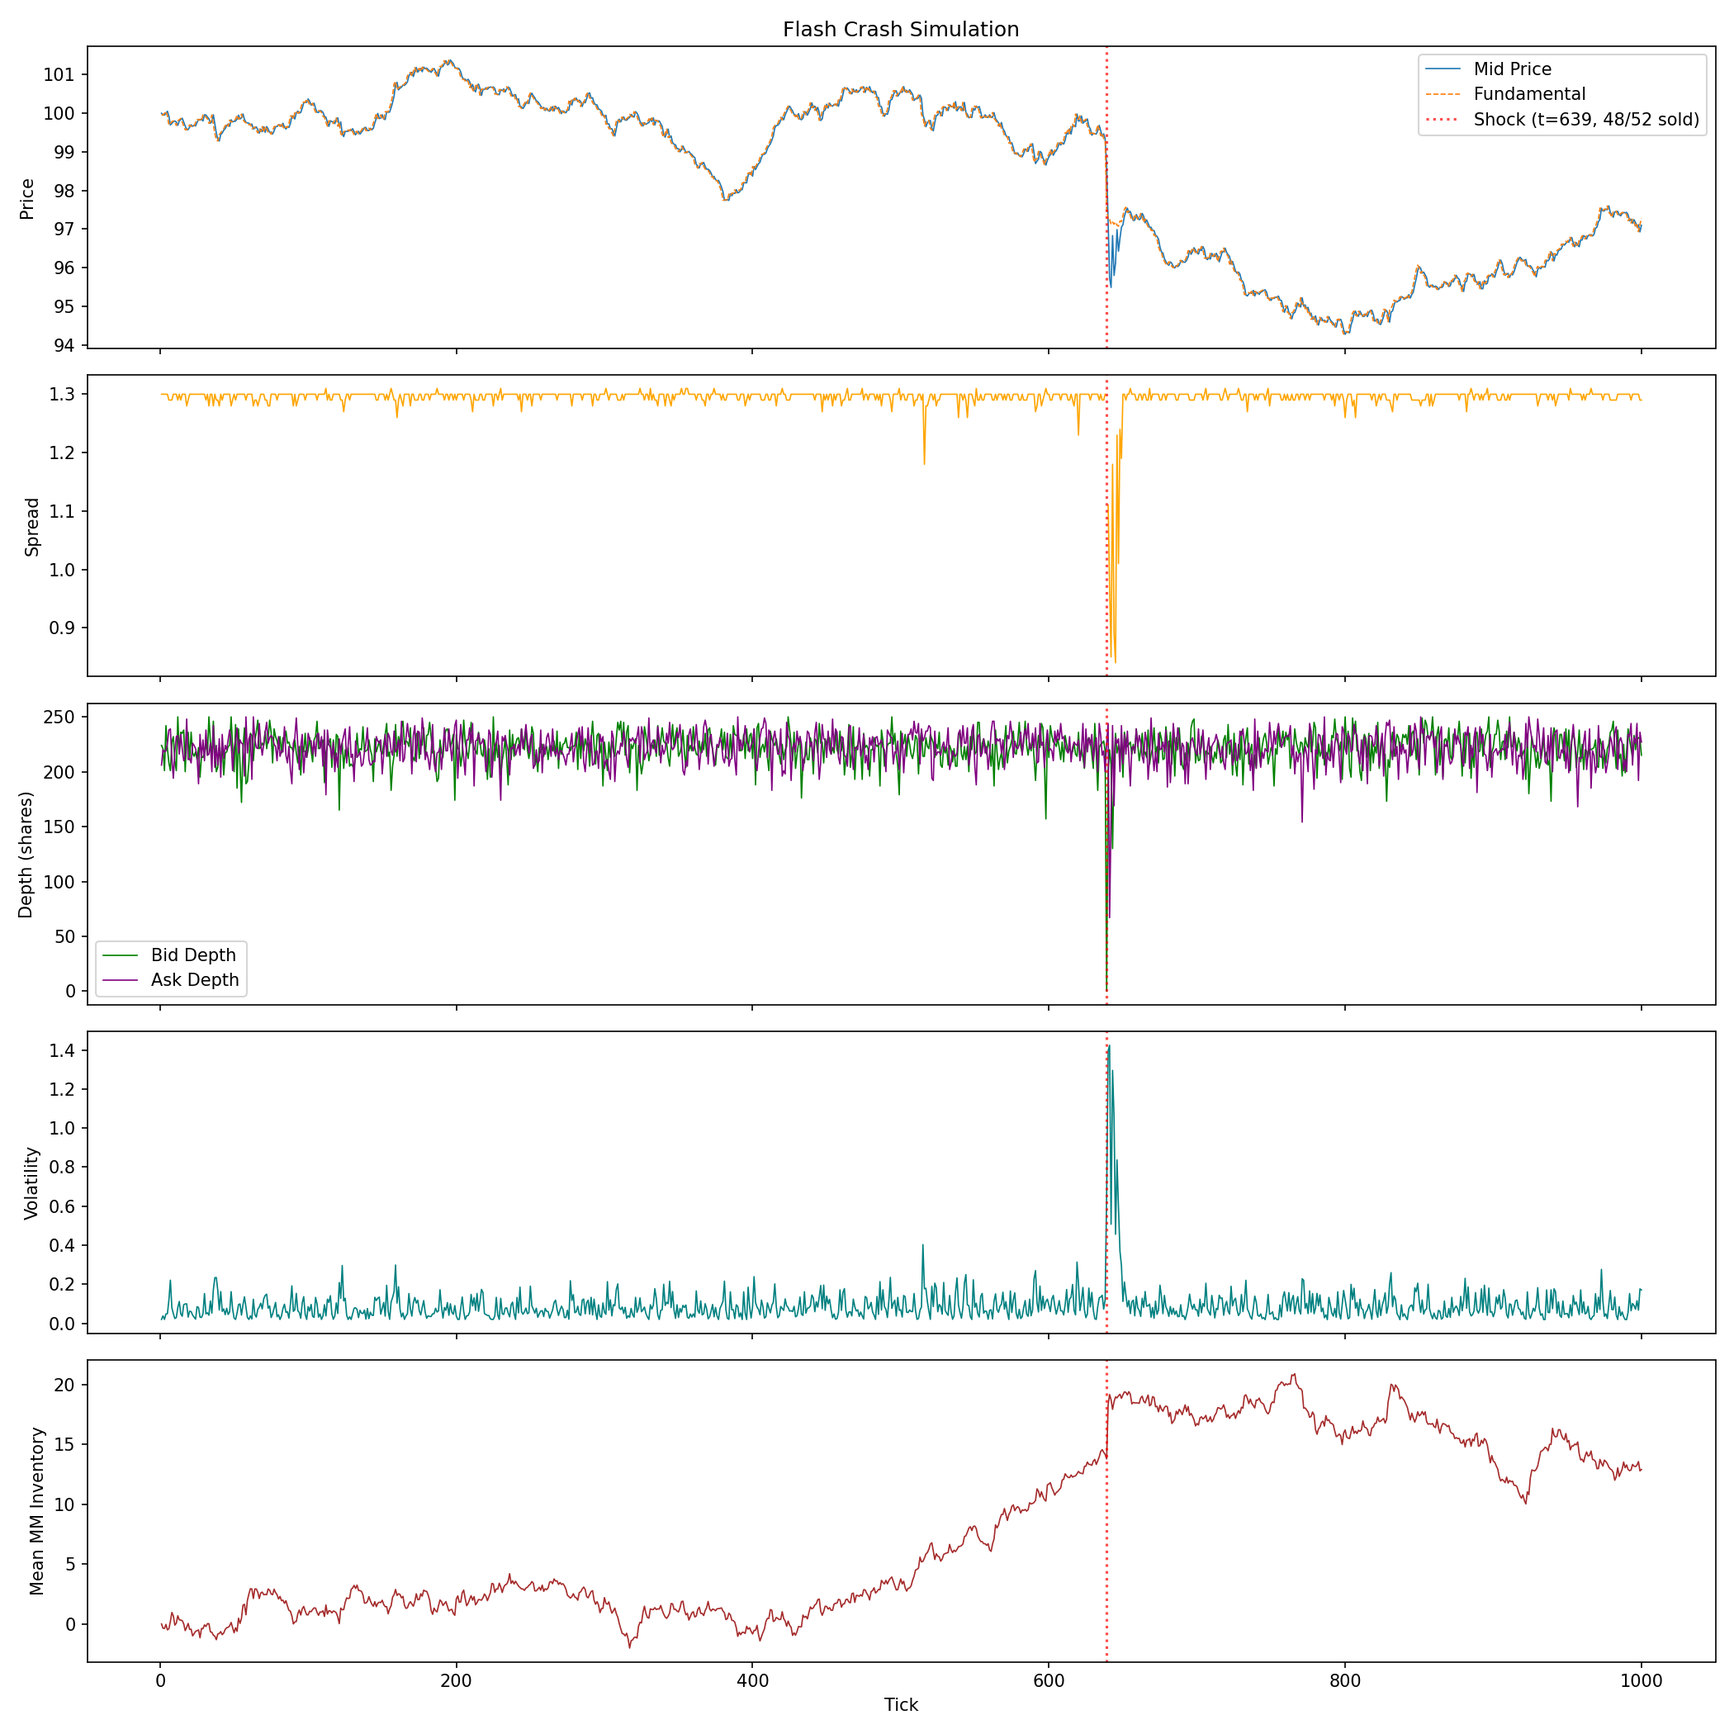
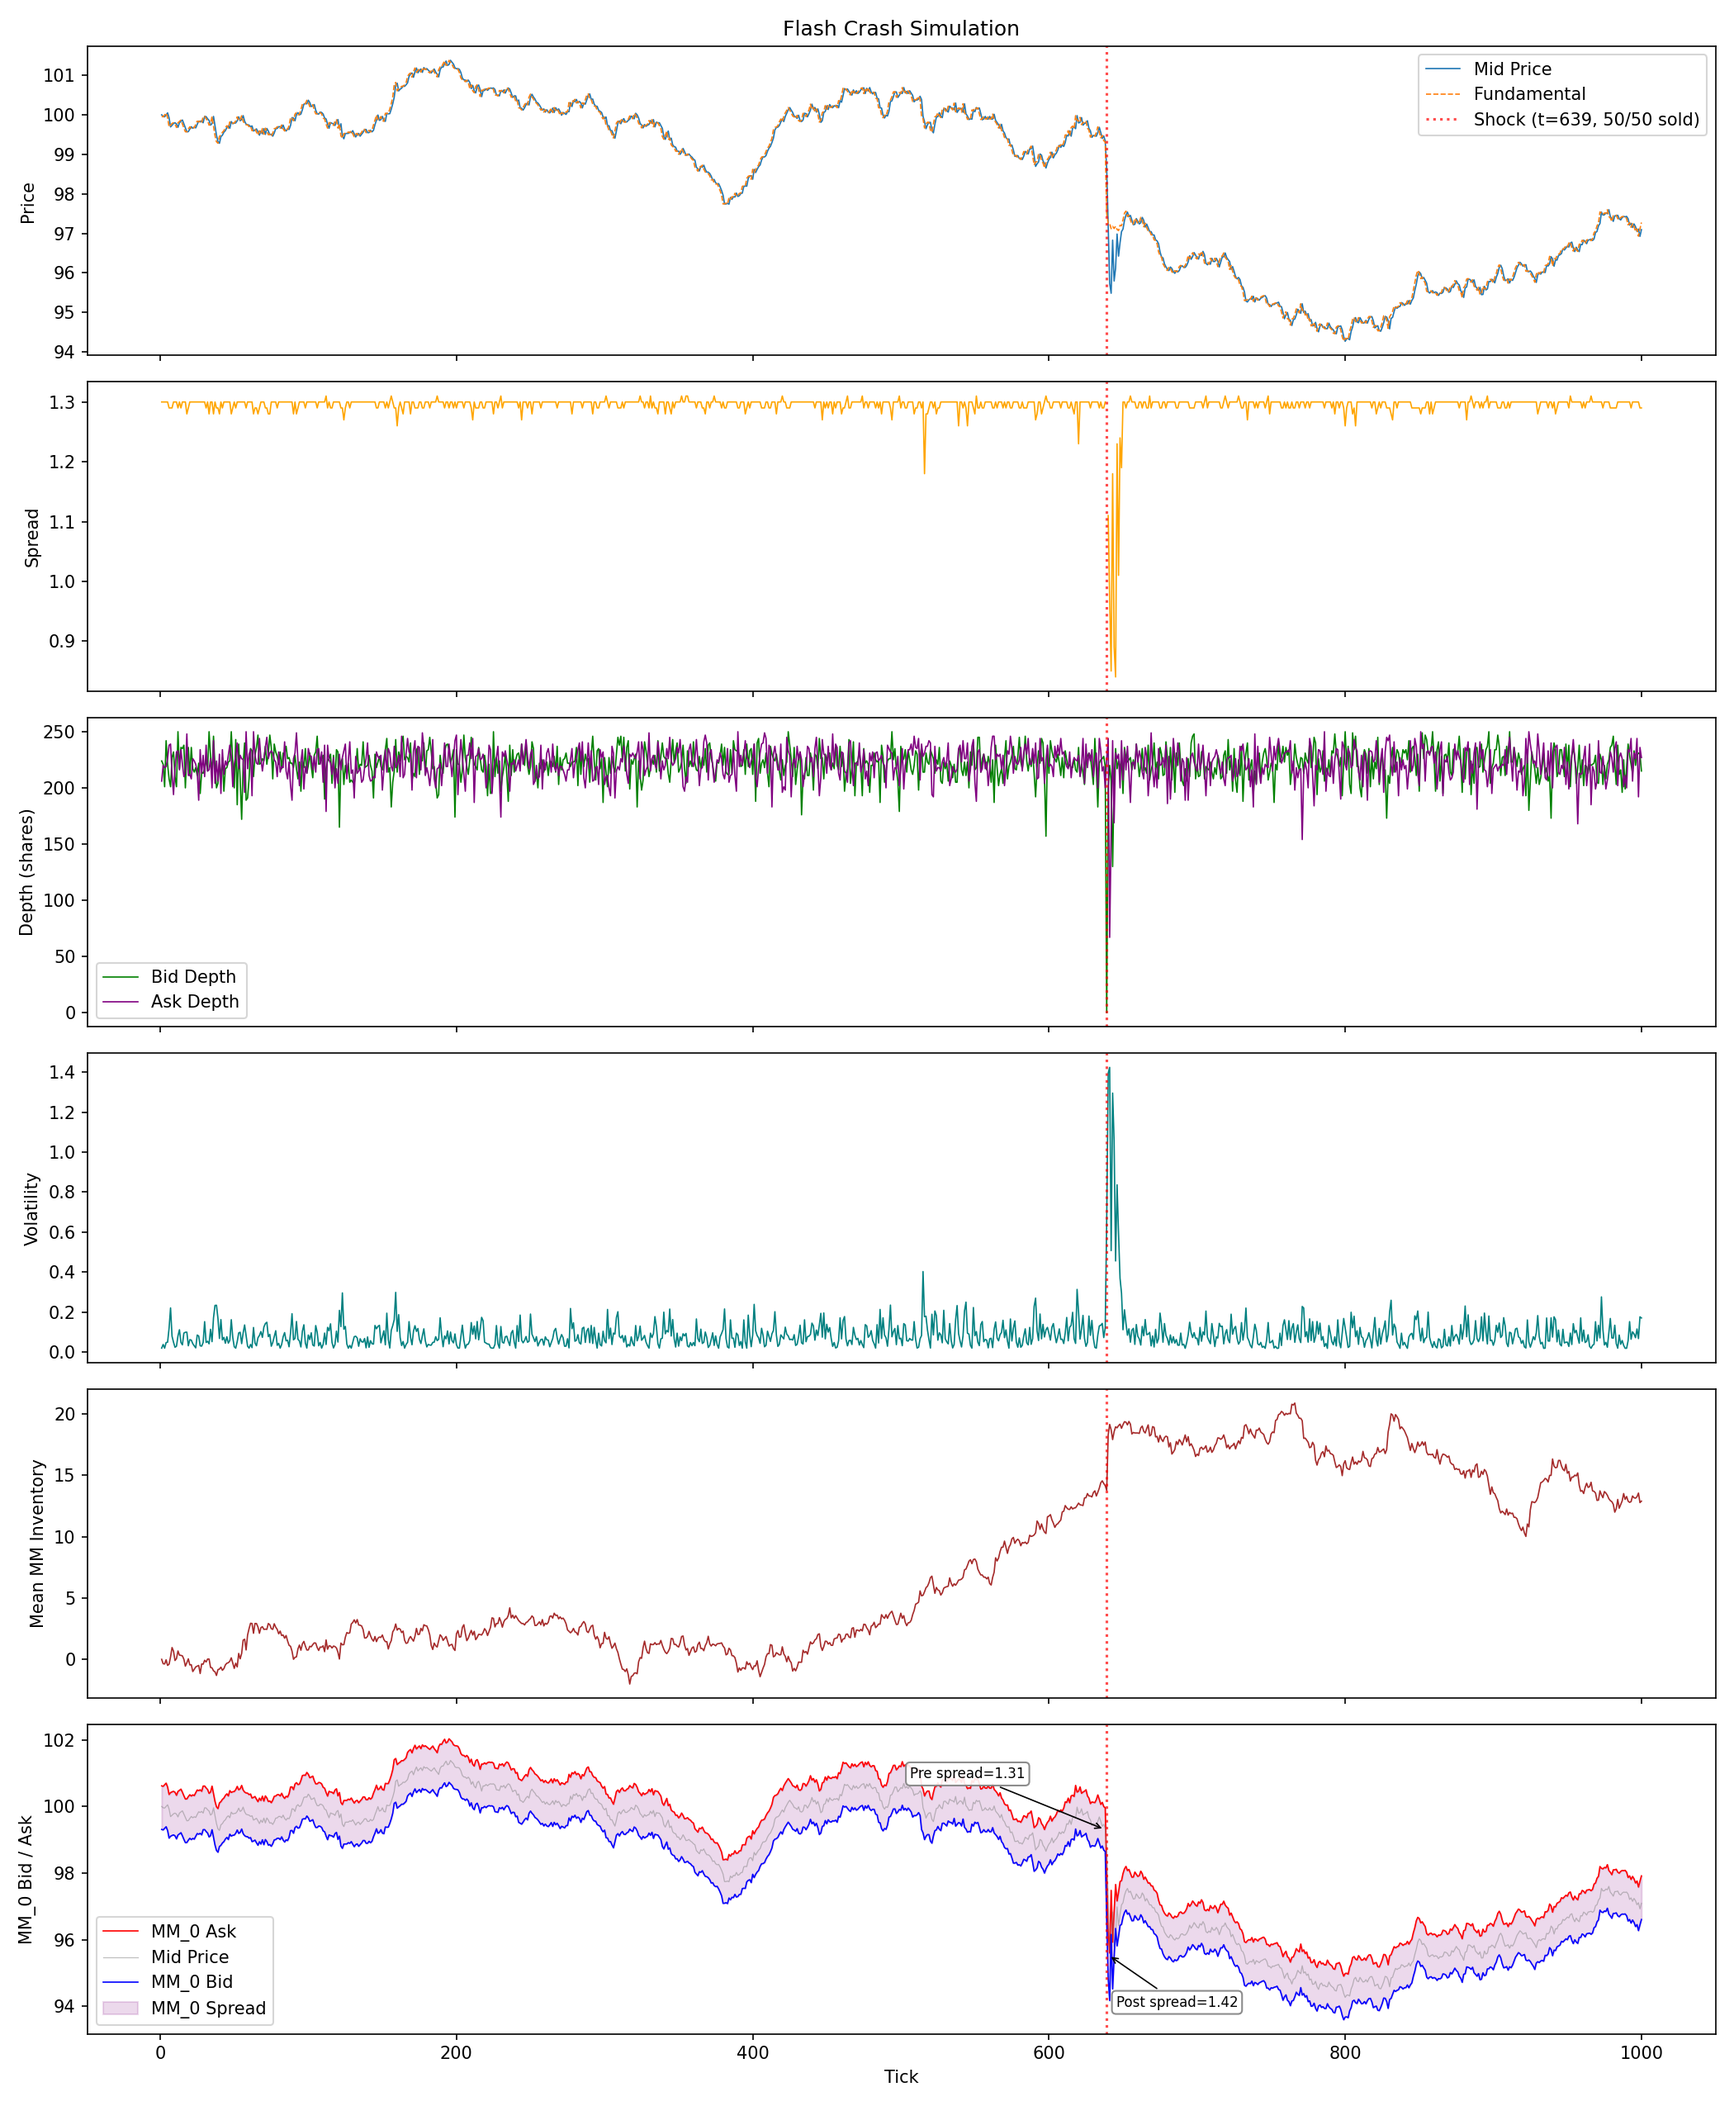
march-17-update

diff --git a/Elena's Starting Point/tests/self_tests.py b/Elena's Starting Point/tests/self_tests.py
@@ -60,7 +60,7 @@ def _dynamic_test_config() -> MAAMConfig:
 
     llm_groups = [
         LLMAgentConfig(
-            num_agents=2,  # <-- LLM agent count (group 1)
+            num_agents=17,  # <-- LLM agent count (group 1)
             provider="openai",
             model_name="llama3.1:8b",
             api_key_env_var="OLLAMA_API_KEY",
@@ -74,7 +74,7 @@ def _dynamic_test_config() -> MAAMConfig:
             execution_noise_max=1.1,
         ),
         LLMAgentConfig(
-            num_agents=2,  # <-- LLM agent count (group 2)
+            num_agents=17,  # <-- LLM agent count (group 2)
             provider="openai",
             model_name="mistral",
             api_key_env_var="OLLAMA_API_KEY",
@@ -90,7 +90,7 @@ def _dynamic_test_config() -> MAAMConfig:
     ]
 
     cfg.news_trader = NewsTraderPoolConfig(
-        num_finbert=48,   # <-- FinBERT agent count
+        num_finbert=16,   # <-- FinBERT agent count
         finbert=finbert_cfg,
         llm_groups=llm_groups,
     )
@@ -287,7 +287,7 @@ def run_full_simulation(episode_length: int = 1000, seed: int = 42):
 # ======================================================================
 
 def plot_results(sim: FlashCrashSimulation, history: list[dict]):
-    """Generate a 5-panel plot from simulation history and save to file."""
+    """Generate a 6-panel plot from simulation history and save to file."""
     print("=" * 70)
     print("PART 3: Generating Plot")
     print("=" * 70)
@@ -300,18 +300,28 @@ def plot_results(sim: FlashCrashSimulation, history: list[dict]):
     bid_depths = [h["bid_depth"] for h in history]
     ask_depths = [h["ask_depth"] for h in history]
     mean_invs = [h["mean_inventory"] for h in history]
+    mm0_bids = [h.get("mm0_bid_price") or float("nan") for h in history]
+    mm0_asks = [h.get("mm0_ask_price") or float("nan") for h in history]
     shock = sim.shock_tick
     num_news = len(sim.news_pool.agents)
     shock_orders = next(
         (h["num_shock_orders"] for h in history if h["tick"] == shock), 0
     )
 
-    fig, axes = plt.subplots(5, 1, figsize=(14, 14), sharex=True)
+    fig, axes = plt.subplots(6, 1, figsize=(14, 17), sharex=True)
+
+    import math
 
     axes[0].plot(ticks, mids, label="Mid Price", linewidth=0.8)
     axes[0].plot(ticks, funds, label="Fundamental", linewidth=0.8, linestyle="--")
     axes[0].axvline(shock, color="red", linestyle=":", alpha=0.7,
                     label=f"Shock (t={shock}, {shock_orders}/{num_news} sold)")
+
+    shock_idx = ticks.index(shock) if shock in ticks else None
+    if shock_idx is not None:
+        pre_idx = shock_idx - 1 if shock_idx > 0 else shock_idx
+        post_idx = shock_idx + 1 if shock_idx < len(ticks) - 1 else shock_idx
+
     axes[0].set_ylabel("Price")
     axes[0].legend()
     axes[0].set_title("Flash Crash Simulation")
@@ -333,12 +343,77 @@ def plot_results(sim: FlashCrashSimulation, history: list[dict]):
     axes[4].plot(ticks, mean_invs, linewidth=0.8, color="brown")
     axes[4].axvline(shock, color="red", linestyle=":", alpha=0.7)
     axes[4].set_ylabel("Mean MM Inventory")
-    axes[4].set_xlabel("Tick")
+
+    axes[5].plot(ticks, mm0_asks, label="MM_0 Ask", linewidth=0.8, color="red")
+    axes[5].plot(ticks, mids, label="Mid Price", linewidth=0.6, color="gray", alpha=0.5)
+    axes[5].plot(ticks, mm0_bids, label="MM_0 Bid", linewidth=0.8, color="blue")
+    axes[5].fill_between(ticks, mm0_bids, mm0_asks, alpha=0.15, color="purple",
+                         label="MM_0 Spread")
+    axes[5].axvline(shock, color="red", linestyle=":", alpha=0.7)
+
+    if shock_idx is not None:
+        for idx, label_prefix in [(pre_idx, "Pre"), (post_idx, "Post")]:
+            bid_v, ask_v = mm0_bids[idx], mm0_asks[idx]
+            if not (math.isnan(bid_v) or math.isnan(ask_v)):
+                spread_v = ask_v - bid_v
+                mid_y = (ask_v + bid_v) / 2
+                axes[5].annotate(
+                    f"{label_prefix} spread={spread_v:.2f}",
+                    xy=(ticks[idx], mid_y),
+                    xytext=(-80 if label_prefix == "Pre" else 40,
+                            30 if label_prefix == "Pre" else -30),
+                    textcoords="offset points", fontsize=8, ha="center",
+                    arrowprops=dict(arrowstyle="->", color="black", lw=0.8),
+                    bbox=dict(boxstyle="round,pad=0.3", fc="white", ec="gray", alpha=0.9))
+
+    axes[5].set_ylabel("MM_0 Bid / Ask")
+    axes[5].set_xlabel("Tick")
+    axes[5].legend(loc="lower left")
 
     fig.tight_layout()
     out_path = os.path.join(os.path.dirname(__file__), "..", "flash_crash_plot.png")
     plt.savefig(out_path, dpi=150)
     print(f"  Plot saved to {os.path.abspath(out_path)}")
+    plt.show()
+    print()
+
+
+def plot_zoomed_shock(sim: FlashCrashSimulation, history: list[dict], window: int = 30):
+    """Zoomed-in single-panel plot of mid/fundamental price around the shock."""
+    print("=" * 70)
+    print("PART 4: Generating Zoomed Shock Plot")
+    print("=" * 70)
+
+    shock = sim.shock_tick
+    ticks = [h["tick"] for h in history]
+
+    shock_idx = ticks.index(shock) if shock in ticks else None
+    if shock_idx is None:
+        print("  Shock tick not found in history — skipping zoom plot.")
+        return
+
+    lo = max(0, shock_idx - window)
+    hi = min(len(history), shock_idx + window + 1)
+    zoom = history[lo:hi]
+
+    zt = [h["tick"] for h in zoom]
+    z_mids = [h["mid_price"] or float("nan") for h in zoom]
+    z_funds = [h["fundamental_price"] for h in zoom]
+
+    fig, ax = plt.subplots(figsize=(12, 5))
+
+    ax.plot(zt, z_mids, label="Mid Price", linewidth=1.2, color="tab:blue")
+    ax.plot(zt, z_funds, label="Fundamental", linewidth=1.2, linestyle="--", color="tab:orange")
+    ax.axvline(shock, color="red", linestyle=":", alpha=0.7, label=f"Shock (t={shock})")
+    ax.set_ylabel("Price")
+    ax.set_xlabel("Tick")
+    ax.legend()
+    ax.set_title(f"Zoomed View: ±{window} Ticks Around Shock")
+
+    fig.tight_layout()
+    out_path = os.path.join(os.path.dirname(__file__), "..", "flash_crash_zoom.png")
+    plt.savefig(out_path, dpi=150)
+    print(f"  Zoom plot saved to {os.path.abspath(out_path)}")
     plt.show()
     print()
 
@@ -357,3 +432,4 @@ if __name__ == "__main__":
 
     sim, history = run_full_simulation(episode_length=1000, seed=42)
     plot_results(sim, history)
+    plot_zoomed_shock(sim, history)

diff --git a/Elena's Starting Point/maam/env.py b/Elena's Starting Point/maam/env.py
@@ -248,7 +248,7 @@ class FlashCrashSimulation:
         self._pending_executions = list(all_executions)
         self._pending_exec_mid = float(post_action_mid)
 
-        return self._build_info(rewards=rewards, max_trade_size=max_trade_size)
+        return self._build_info(rewards=rewards, max_trade_size=max_trade_size, actions=actions)
 
     def run(self, seed: Optional[int] = None) -> list[dict]:
         """Run a complete episode and return per-tick info dicts."""
@@ -299,11 +299,21 @@ class FlashCrashSimulation:
         self,
         rewards: Optional[dict[str, float]] = None,
         max_trade_size: int = 0,
+        actions: Optional[dict[str, QuoteAction]] = None,
     ) -> dict:
         # Report the pre-MM snapshot depth (post noise/shock), so the
         # reported mid reflects order flow and not quote-refreshing.
         depth = self._last_snapshot_depth or self._lob.get_depth()
         inventories = [mm.inventory for mm in self._market_makers]
+
+        mm0_action = (actions or {}).get("MM_0")
+        mm0_bid = mm0_action.bid_price if mm0_action else None
+        mm0_ask = mm0_action.ask_price if mm0_action else None
+        mm0_inv = next(
+            (mm.inventory for mm in self._market_makers if mm.agent_id == "MM_0"),
+            0,
+        )
+
         return {
             "tick": self._tick,
             "shock_tick": self._shock_tick,
@@ -321,6 +331,9 @@ class FlashCrashSimulation:
             "rewards": rewards or {},
             "num_shock_orders": len(self._shock_orders_submitted) if self._tick == self._shock_tick else 0,
             "max_trade_size": int(max_trade_size),
+            "mm0_bid_price": mm0_bid,
+            "mm0_ask_price": mm0_ask,
+            "mm0_inventory": mm0_inv,
         }
 
     def _inject_shock(self):

diff --git a/Elena's Starting Point/maam/config.py b/Elena's Starting Point/maam/config.py
@@ -119,14 +119,14 @@ class LLMAgentConfig:
 def _default_llm_groups() -> list[LLMAgentConfig]:
     return [
         LLMAgentConfig(
-            num_agents=1,
+            num_agents=17,
             provider="openai",
             model_name="llama3.1:8b",
             api_key_env_var="OLLAMA_API_KEY",
             base_url="http://localhost:11434/v1",
         ),
         LLMAgentConfig(
-            num_agents=1,
+            num_agents=17,
             provider="openai",
             model_name="mistral",
             api_key_env_var="OLLAMA_API_KEY",
@@ -144,7 +144,7 @@ class NewsTraderPoolConfig:
     changes required.
     """
 
-    num_finbert: int = 48
+    num_finbert: int = 16
     finbert: FinBERTAgentConfig = field(default_factory=FinBERTAgentConfig)
     llm_groups: list[LLMAgentConfig] = field(default_factory=_default_llm_groups)
 
@@ -154,9 +154,7 @@ class ShockConfig:
     """Parameters for the exogenous news shock."""
 
     headline: str = (
-        "The Federal Reserve unexpectedly hiked interest rates by 50 basis "
-        "points, citing persistent, entrenched inflation. Equity markets "
-        "expected to face severe headwinds."
+        "The Federal Reserve unexpectedly hiked interest rates by 50 basis points, citing persistent, entrenched inflation. Equity markets expected to face severe headwinds."
     )
     post_shock_volatility_multiplier: float = 1.0
     fundamental_drop: float = 2.0           # permanent downward shift in fundamental value
